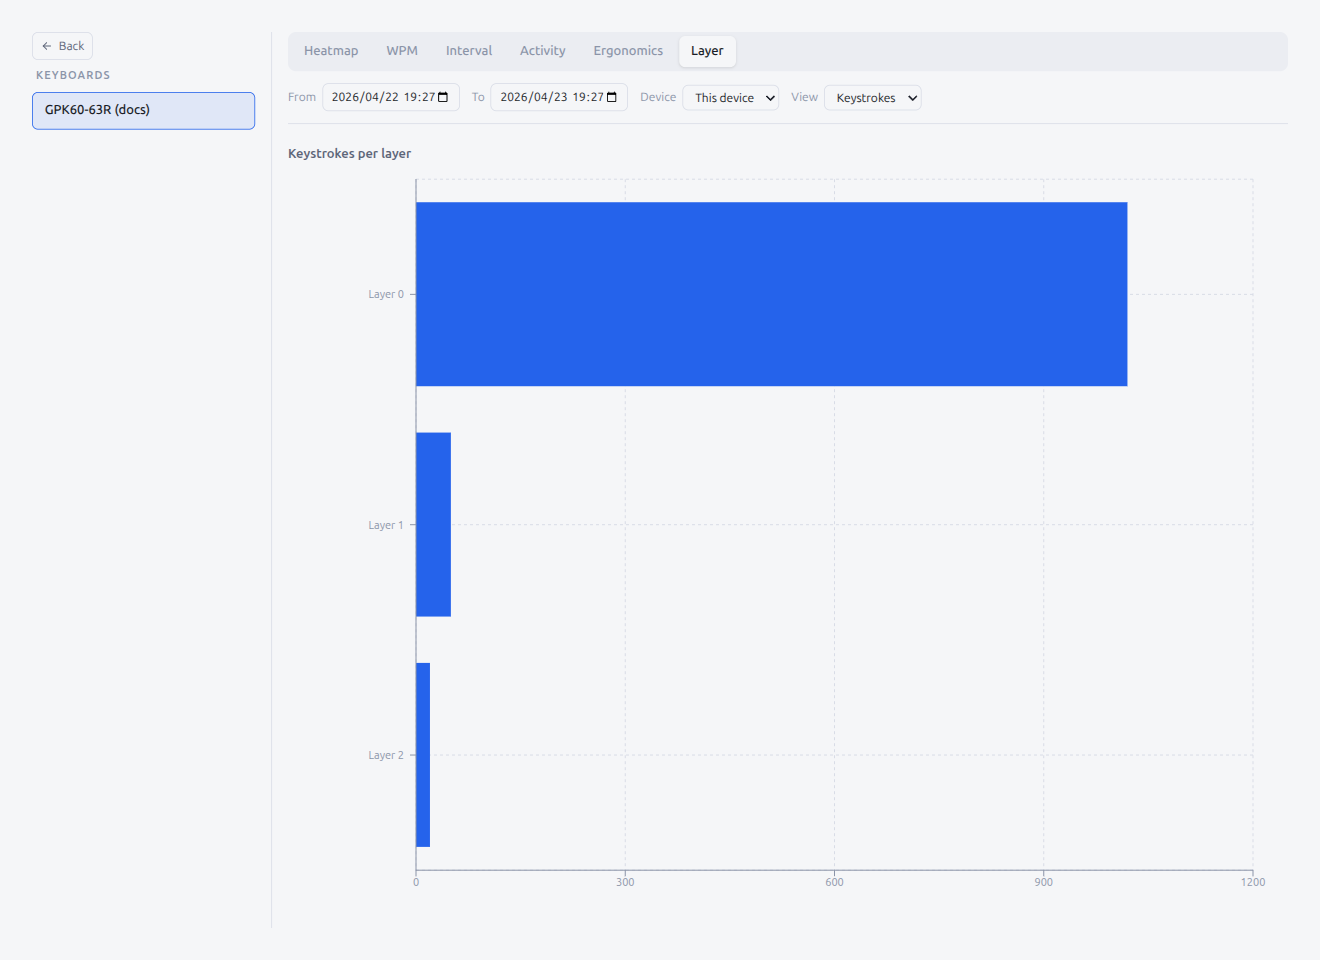
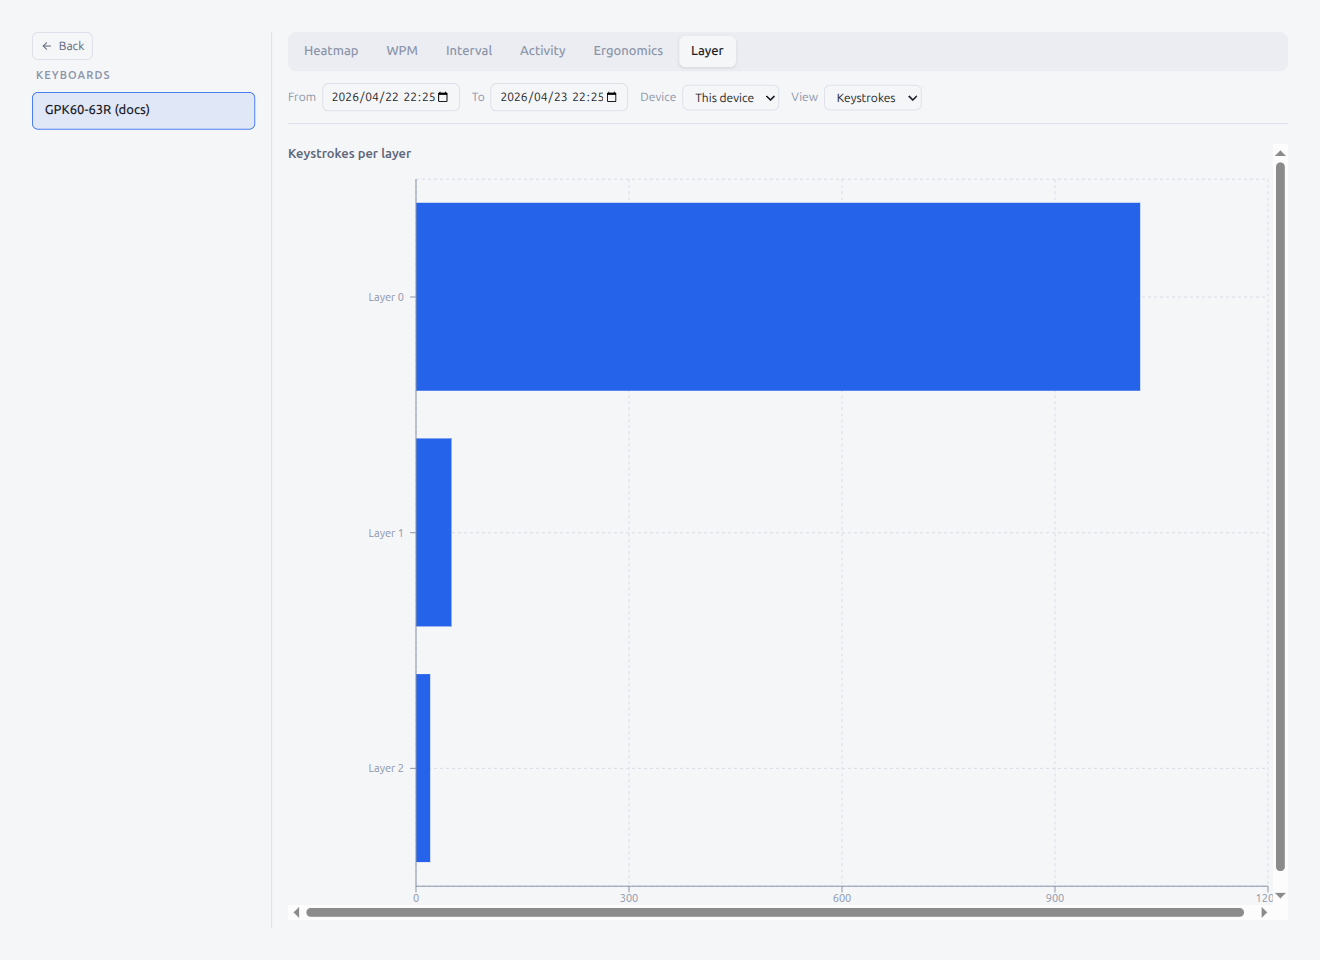
docs(analyze): add tab subsections and screenshots to operation guide
Add per-tab subsections for Heatmap / WPM / Interval / Activity / Ergonomics
under section 1.4 Analyze in both English and Japanese operation guides,
and ship eight new reference screenshots alongside refreshed captures of
the Layer tab.

diff --git a/docs/OPERATION-GUIDE.ja.md b/docs/OPERATION-GUIDE.ja.md
@@ -122,6 +122,153 @@ File タブでは、物理キーボードを接続せずに `.pipette` ファイ
 
 各タブには固有のフィルタ（表示モード、粒度、正規化、単位など）がチャート上部に追加される。詳細は各タブのサブセクションを参照。
 
+#### ヒートマップ
+
+ヒートマップタブは物理キーごとの押下回数を数え、キーマップレイアウトの上にレイヤー別で表示する。レイヤー単位で過剰に使われているキーや全く使われていないキーを洗い出し、レイアウト調整の材料にするのに使う。
+
+**キーマップ表示**
+
+キーは押下回数で色付けされる（薄い = 少ない、濃い = 多い）。レイヤーが複数あるキーボードではパネル上部にレイヤー切替のボタン列（**Layer 0**、**Layer 1**、…）が出て、各ボタンにレイヤー別の合計回数が併記される。キーにマウスを乗せるとチャート内にツールチップが開き、割り当てキーコードと回数を表示する。ツールチップはヒートマップの枠内に収まる。
+
+**ランキング操作**
+
+ヒートマップの下にはランキングテーブルがある。表示内容を 4 つのフィルタで制御する:
+
+- **正規化** — `絶対数`（生の回数）、`1 時間あたり`（回数 ÷ 活動時間）、`総打鍵比 (%)`（期間中の全打鍵に対する比率）
+- **集計** — `物理`は同じ物理セルの押下をまとめる、`文字`は同じキーコードを（物理位置に関係なく）まとめる
+- **グループ** — `すべて` / `文字` / `修飾` / `レイヤー操作`
+- **上位** — 10 / 20 / … / 100
+
+列は **キー**、**レイヤー**（グループが複数レイヤーにまたがるときのみ表示）、**マトリクス**、**回数**。
+
+![分析 — ヒートマップ](screenshots/analyze-heatmap.png)
+
+**空状態**
+
+- **スナップショット無し** — 「この期間のキーマップスナップショットが記録されていません。record を開始すると取得されます。」
+- **レイアウト無し** — 「このスナップショットにレイアウトデータがありません。」スナップショットはあるが KLE 情報が欠けている場合
+- **活動なし** — 「この期間に押下されたキーがありません。」ランキングテーブルのみ
+
+#### WPM
+
+WPM タブは Words Per Minute（1 分あたりの打鍵数 ÷ 5）を、時系列または時間帯別で可視化する。
+
+**ビュー**
+
+- **時系列** — 選択期間の WPM を折れ線で表示する。**エラー推定** が `ON` のときは赤い破線で **Bksp %** を右側の副軸（0–100%）に重ね、打鍵速度とエラー率を同時に確認できる
+
+  ![分析 — WPM 時系列](screenshots/analyze-wpm-time-series.png)
+
+- **時間帯別** — 1 日 24 時間のバーチャート。各バーはその時間帯の平均 WPM。**最小サンプル** 閾値を満たさないバーは薄く表示される
+
+  ![分析 — WPM 時間帯別](screenshots/analyze-wpm-time-of-day.png)
+
+**最小サンプル**（時系列・時間帯別 共通）
+
+`30秒`、`1分`、`2分`、`5分`。閾値未満の 1 分バケットはチャートから除外され、打鍵数の少ないサンプルによる外れ値を抑制する。
+
+**エラー推定**（時系列のみ）
+
+`ON` / `OFF`。ON にすると WPM 折れ線に **Bksp %** の線が追加される。凡例をクリックすると各線を表示/非表示にできる。
+
+**粒度**（時系列のみ）
+
+時系列のバケット幅を制御する（`自動`、`1分`、`5分`、… `1週間`、`1ヶ月`）。
+
+**サマリカード**
+
+- **時系列** — 合計打鍵、実打鍵時間、平均WPM、最高 WPM、最低WPM、重み付き中央値WPM、1 分最大打鍵、1 日最大打鍵、(エラー推定 ON のみ) Bksp 合計・平均 Bksp %
+- **時間帯別** — 合計打鍵、実打鍵時間、平均WPM、ピーク時間帯、最遅時間帯、活動時間帯数（N/24）
+
+#### 間隔
+
+間隔タブは連続する打鍵の間隔（時間）を、分位数の時系列または分布ヒストグラムで可視化する。
+
+**ビュー**
+
+- **時系列** — 対数スケールの Y 軸に 5 本の分位数ライン（**最小**、**p25**、**中央値**、**p75**、**最大**）を描画する。中央値の線が最も太い。凡例をクリックすると線を隠せる。Y 軸ラベルは **表示** の設定に応じて `秒 (log)` または `ms (log)`
+
+  ![分析 — 間隔 時系列](screenshots/analyze-interval-time-series.png)
+
+- **分布** — 9 ビンのバーチャート（`<50ms`、`50-100ms`、`100-200ms`、`200-500ms`、`500ms-1s`、`1-2s`、`2-5s`、`5-10s`、`>10s`）。帯域別に色分け: **高速**（緑、<200ms）/ **標準**（青、200-500ms）/ **緩慢**（オレンジ、500ms-2s）/ **ポーズ**（赤、≥2s）。分布モードでは **デバイス** フィルタが非表示になる（ビン集計は常にこのデバイス単独で行うため）
+
+  ![分析 — 間隔 分布](screenshots/analyze-interval-distribution.png)
+
+**表示**（時系列・分布 共通）
+
+`秒` / `ミリ秒`。ツールチップと Y 軸の単位が切り替わる。ビンのラベル自体は固定表記。
+
+**粒度**（時系列のみ）
+
+WPM タブと同じ選択肢。
+
+**サマリカード**
+
+- **時系列** — 合計打鍵、実打鍵時間、重み付き中央値、最短打鍵間隔（1分）、最長打鍵間隔（1分）
+- **分布** — 合計打鍵、中央値インターバル、高速 (<200ms) 割合、標準 (200-500ms) 割合、緩慢 (500ms-2s) 割合、ポーズ (>=2s) 割合、最長打鍵間隔（1分）、最長セッション
+
+#### 活動量
+
+活動量タブは打鍵を「曜日 × 時間帯」で集計し、どの時間帯にどれだけ打鍵しているかを俯瞰する。
+
+**指標**
+
+- **打鍵数** — 24 × 7 のグリッドを打鍵数で色付けする。空セルは薄く、最多セルは最も濃い色に。セルにマウスを乗せるとブラウザ標準のツールチップで回数が表示される
+
+  ![分析 — 活動量 打鍵数](screenshots/analyze-activity-keystrokes.png)
+
+- **WPM** — 同じグリッドをセル別平均 WPM で色付けする。**最小サンプル** を満たさないセルは色スケールに貼り付けず、薄色で表示される
+- **セッション** — セッション長の 7 ビンヒストグラム（`5分未満`、`5-15分`、`15-30分`、`30-60分`、`1-2時間`、`2-4時間`、`4時間以上`）。セッションは「5 分以上の無入力で区切られた連続打鍵」
+
+**最小サンプル**（指標 = WPM のみ）
+
+WPM タブと同じ選択肢。
+
+**ピーク記録**
+
+グリッドの上に、期間中のピーク値を 4 枚のカードで表示する: 最高 WPM、1 分最大打鍵、1 日最大打鍵、最長セッション（分）。指標を切り替えてもこれらは常に表示され、全体のピークが一目で確認できる。
+
+**サマリカード**
+
+グリッドの下には指標別のサマリが出る:
+
+- **打鍵数** — 合計打鍵、実打鍵時間、最頻曜日、最頻時間帯、ピークセル、活動セル数（N/168）
+- **WPM** — 合計打鍵、実打鍵時間、平均WPM、ピークセル、最遅セル、活動セル数（N/168）
+- **セッション** — セッション数、合計時間、平均セッション長、中央値セッション長、最長セッション、最短セッション
+
+#### エルゴノミクス
+
+エルゴノミクスタブは打鍵の物理的な負荷を、指別 / 左右バランス / 段別 の 3 つの視点で表示する。スナップショット内のキー → 指の対応を元に集計する。
+
+ヒートマップと同じく、このビューは期間内のキーマップスナップショットが必要。
+
+**セクション**
+
+3 つのバーチャートが縦に並ぶ:
+
+1. **指別打鍵量** — 左小指から右小指までの 10 本の縦バー
+2. **左右バランス** — 左手 / 右手 の 2 本の横バー
+3. **段別打鍵量** — F 行 / 数字行 / 上段 / ホーム行 / 下段 / 親指段 の 6 本の横バー
+
+![分析 — エルゴノミクス](screenshots/analyze-ergonomics.png)
+
+**指割り当て**
+
+各キーの指アサインはレイアウトの KLE メタデータ（列位置と標準の列→指マッピング）から自動で決まる。キー個別に上書きしたい場合は、タブ上部の **指割り当て** ボタンからモーダルを開く:
+
+![分析 — 指割り当て](screenshots/analyze-finger-assignment-modal.png)
+
+- 各キーには指の短ラベル（`左小` `左薬` `左中` `左人` `左親` / `右親` `右人` `右中` `右薬` `右小`）が表示される。手動で上書きされたキーには `*` が付く
+- キーをクリックするとポップオーバーが開き、指を選べる
+- **保存** で上書きを確定、**全てリセット** で全ての上書きを消す（上書きが無いときは無効）。キー個別のポップオーバーにある **推定に戻す** はそのキーの上書きだけを消す
+- モーダルを閉じると上書きが即座に反映され、指別打鍵量 / 左右バランス / 段別打鍵量 の全てが再集計される
+
+**空状態**
+
+- **スナップショット無し** — ヒートマップと同じメッセージ
+- **レイアウト無し** — 「このスナップショットにはレイアウト情報がありません。」
+- **活動なし** — 「この期間の打鍵データがありません。」
+
 #### レイヤー
 
 レイヤータブは使用状況をレイヤーごとに分解する。

diff --git a/docs/OPERATION-GUIDE.md b/docs/OPERATION-GUIDE.md
@@ -122,6 +122,153 @@ The following filters are always available:
 
 Individual tabs add their own filters above the chart (view mode, granularity, normalization, unit, etc.); those are described per tab in the sections below.
 
+#### Heatmap
+
+The Heatmap tab counts every press per physical key and paints the result on the keymap layout, one layer at a time. It's useful for spotting over- or under-used keys per layer and for tuning the layout.
+
+**Keymap panel**
+
+Keys are tinted by press count (dim = low, saturated accent = high). When a keyboard has more than one layer, a layer toggle bar appears above the panel (**Layer 0**, **Layer 1**, …) and each button shows the per-layer count. Hovering a key opens a tooltip inside the chart with the bound keycode and the count; the tooltip never spills outside the heatmap frame.
+
+**Ranking controls**
+
+Below the heatmap is a ranking table. Four filters control what it shows:
+
+- **Normalize** — `Absolute` (raw count), `Per hour` (count ÷ active hours), `Share of total` (% of total presses in range)
+- **Aggregate** — `By cell` collapses every press of the same physical cell; `By character` collapses every press of the same keycode regardless of where on the keymap it sits
+- **Group** — `All`, `Character`, `Modifier`, `Layer op`
+- **Top N** — 10 / 20 / 30 / … / 100
+
+Columns are **Key**, **Layer** (only when the group spans multiple layers), **Matrix**, **Count**.
+
+![Analyze — Heatmap](screenshots/analyze-heatmap.png)
+
+**Empty states**
+
+- **No snapshot** — "No keymap snapshot recorded for this range. Start a record session to capture one."
+- **No layout** — "Layout data not available for this snapshot." The snapshot exists but lacks KLE geometry
+- **No activity** — "No key presses in this range." Ranking table only
+
+#### WPM
+
+The WPM tab charts Words Per Minute — keystrokes per minute divided by 5 — either as a time series or binned by hour of day.
+
+**View Mode**
+
+- **Time series** — WPM over the selected range as a line chart. When **Error proxy** is On, a red dashed line plots **Bksp %** on a secondary right-hand axis (0–100 %), letting you see speed and error rate together
+
+  ![Analyze — WPM Time Series](screenshots/analyze-wpm-time-series.png)
+
+- **Time of day** — Bar chart of the 24 hours in the local day. Each bar is the average WPM for that hour across the range. Bars that did not meet **Min sample** render in a muted tone
+
+  ![Analyze — WPM Time of Day](screenshots/analyze-wpm-time-of-day.png)
+
+**Min sample** (both views)
+
+`30s`, `1 min`, `2 min`, `5 min`. Minutes with fewer keystrokes than the chosen WPM-worth-of-keys threshold are dropped from the chart so very light sessions don't skew the line.
+
+**Error proxy** (Time series only)
+
+`On` / `Off`. On mode adds the **Bksp %** companion line to the WPM line. Click a legend entry to hide or show either line.
+
+**Granularity** (Time series only)
+
+Bucket width of the time series (`Auto`, `1 min`, `5 min`, … `1 week`, `1 month`).
+
+**Summary cards**
+
+- **Time series** — Total keystrokes, Active typing time, Overall WPM, Peak WPM, Lowest WPM, Weighted median WPM, Peak K/min, Peak K/day, and (Error proxy On only) Total Bksp + Overall Bksp %
+- **Time of day** — Total keystrokes, Active typing time, Overall WPM, Peak hour, Slowest hour, Active hours (N / 24)
+
+#### Interval
+
+The Interval tab visualizes the time between consecutive keystrokes, either as percentile lines over time or as a distribution histogram.
+
+**View Mode**
+
+- **Time series** — Five percentile lines on a log-scale Y axis: **Min**, **p25**, **Median**, **p75**, **Max**. The Median line is drawn thickest. Click a legend entry to hide a line. The Y-axis label reads `sec (log)` or `ms (log)` depending on Display
+
+  ![Analyze — Interval Time Series](screenshots/analyze-interval-time-series.png)
+
+- **Distribution** — Bar chart of nine fixed bins (`<50ms`, `50-100ms`, `100-200ms`, `200-500ms`, `500ms-1s`, `1-2s`, `2-5s`, `5-10s`, `>10s`). Bars are colored by band: **Fast** (green, <200ms), **Normal** (blue, 200–500ms), **Slow** (orange, 500ms–2s), **Pause** (red, ≥2s). The **Device** filter is hidden in Distribution mode because bins are always computed from this device alone
+
+  ![Analyze — Interval Distribution](screenshots/analyze-interval-distribution.png)
+
+**Display** (both views)
+
+`Seconds` / `Milliseconds`. Switches the unit used in tooltips and on the Y axis. The distribution bin labels stay in their native unit.
+
+**Granularity** (Time series only)
+
+Same options as WPM.
+
+**Summary cards**
+
+- **Time series** — Total keystrokes, Active typing time, Weighted median interval, Shortest interval (per min), Longest interval (per min)
+- **Distribution** — Total keystrokes, Median interval, Fast (<200ms) share, Normal (200–500ms) share, Slow (500ms–2s) share, Pause (≥2s) share, Longest interval (per min), Longest session
+
+#### Activity
+
+The Activity tab groups typing by day-of-week × hour so you can see when you actually type.
+
+**Metric**
+
+- **Keystrokes** — a 24 × 7 grid colored by keystroke count. Empty cells are dim, the busiest cell is fully saturated. Hovering a cell shows the count in the browser's title tooltip
+
+  ![Analyze — Activity Keystrokes](screenshots/analyze-activity-keystrokes.png)
+
+- **WPM** — same grid, colored by average WPM per cell. Cells that don't meet **Min sample** are desaturated instead of pinning the color scale
+- **Sessions** — histogram of session lengths in seven bins (`<5 min`, `5-15 min`, `15-30 min`, `30-60 min`, `1-2 h`, `2-4 h`, `>4 h`). A session is continuous typing separated by 5+ minutes of idle
+
+**Min sample** (Metric = WPM only)
+
+Same options as the WPM tab.
+
+**Peak records**
+
+Four stat cards above the grid summarize the peaks across the selected range: Peak WPM, Peak K/min, Peak K/day, Longest session (min). They stay visible for every metric so you always see the overall highs at a glance.
+
+**Summary cards**
+
+Under the grid, the summary depends on the metric:
+
+- **Keystrokes** — Total keystrokes, Active typing time, Busiest day, Busiest hour, Peak cell, Active cells (N / 168)
+- **WPM** — Total keystrokes, Active typing time, Overall WPM, Peak cell, Slowest cell, Active cells (N / 168)
+- **Sessions** — Session count, Total duration, Mean duration, Median duration, Longest session, Shortest session
+
+#### Ergonomics
+
+The Ergonomics tab reports the physical load of your typing — per finger, per hand, per row — based on the key → finger assignment in the snapshot keymap.
+
+Like Heatmap, this view needs a keymap snapshot that overlaps the range.
+
+**Sections**
+
+Three bar charts stack vertically:
+
+1. **Finger Load** — 10 vertical bars, one per finger from left pinky to right pinky
+2. **Hand Balance** — 2 horizontal bars (Left / Right)
+3. **Row Usage** — 6 horizontal bars (Function / Number / Top / Home / Bottom / Thumb)
+
+![Analyze — Ergonomics](screenshots/analyze-ergonomics.png)
+
+**Finger assignment**
+
+Each key is auto-assigned to a finger based on the layout's KLE metadata (column position and the standard column-to-finger mapping). Click the **Finger assignment** button at the top of the tab to override any key manually:
+
+![Analyze — Finger Assignment](screenshots/analyze-finger-assignment-modal.png)
+
+- Each key shows a short finger code (`Lp`, `Lr`, `Lm`, `Li`, `Lt` / `Rt`, `Ri`, `Rm`, `Rr`, `Rp`). Manually overridden keys are prefixed with `*`
+- Click a key → popover to pick a finger
+- **Save** persists the overrides; **Reset all** clears every override (disabled when there are none). **Reset to estimate** in the per-key popover clears just that key
+- Overrides apply immediately once you close the modal — Finger Load, Hand Balance, and Row Usage all recompute
+
+**Empty states**
+
+- **No snapshot** — same message as Heatmap
+- **No layout** — "Layout data not available for this snapshot."
+- **No activity** — "No keystrokes recorded in this range."
+
 #### Layer
 
 The Layer tab breaks usage down by keyboard layer.
